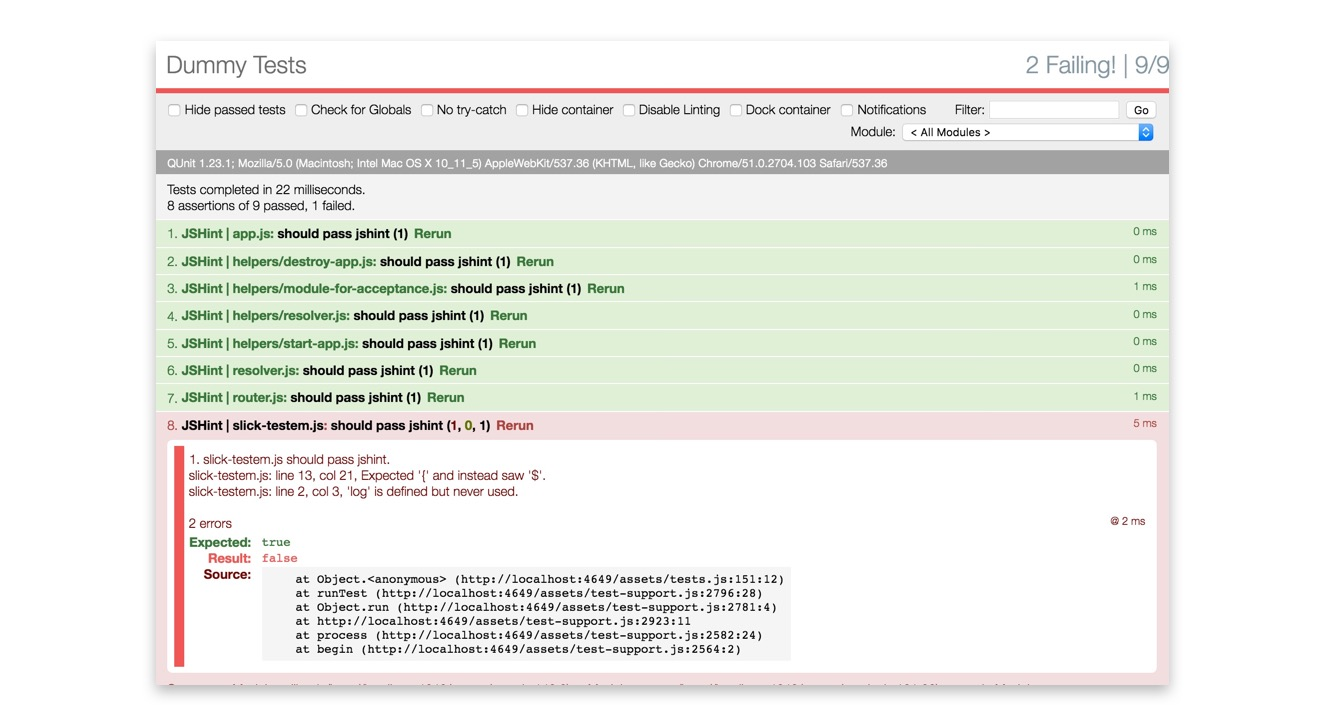
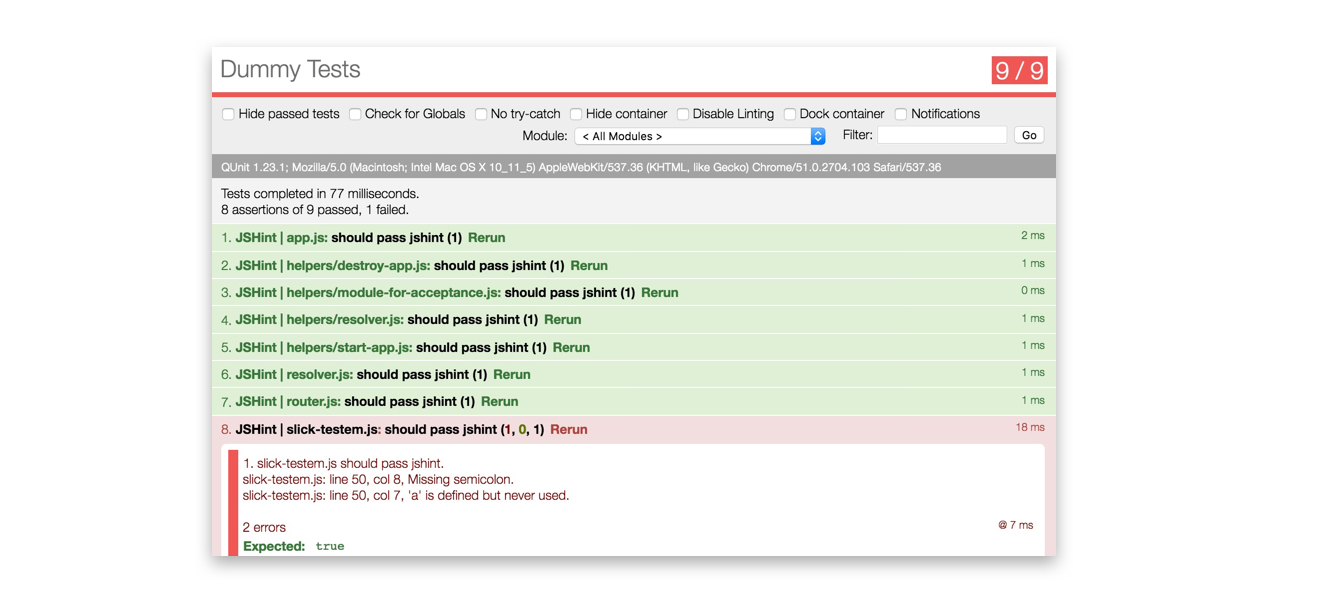
Update screenshot and design tweaks

diff --git a/blueprints/slick_testem/files/tests/slick-testem.js b/blueprints/slick_testem/files/tests/slick-testem.js
@@ -2,7 +2,7 @@
   "use strict";
   var SlickTestem = function() {
     var $slickTestem = $(`
-      <div style="float:right;" id="slick-testem">
+      <div id="slick-testem">
         <span class="tests-ran">0</span> / <span class="tests-total">0</span><br>
       </div>
     `);
@@ -11,6 +11,7 @@
       hasNotifiedFailing: false,
 
       setupHeader: function() {
+        console.log("Setting up slick testem");
         $('#qunit-header').append($slickTestem);
         $('.tests-total').text($('[id^="qunit-test-output"]').length);
       },
@@ -27,7 +28,7 @@
       },
 
       checkFailing: function () {
-        if(this.isFailing() && !this.hasNotifiedFailing) {
+        if(this.isFailing()) {
           $('#slick-testem').addClass('failing');
           this.hasNotifiedFailing = true;
         }
@@ -41,7 +42,7 @@
 
         this.setupTimer = window.setTimeout(() => {
           this.setupHeader();
-        }, 1000); // lazy timer
+        }, 3000); // lazy timer
       }
     };
   };

diff --git a/blueprints/slick_testem/files/tests/slick-testem.css b/blueprints/slick_testem/files/tests/slick-testem.css
@@ -4,6 +4,11 @@ body {
   padding: 0;
 }
 
+#slick-testem {
+  margin-right: 10px;
+  float: right;
+}
+
 #slick-testem.failing {
   background: red;
   color: white;

diff --git a/README.md b/README.md
@@ -12,6 +12,8 @@ Quickstart: `ember install slick_testem`.
 
 ## Development
 
+This runs on `http://localhost:4649`.
+
 `ember generate slick_testem` will load/reload the current `.js` and
 `.cs` files we are using to customize testem.
 
@@ -34,7 +36,7 @@ of testem: http://localhost:4649/tests
 ## Running
 
 * `ember server`
-* Visit your app at http://localhost:4200.
+* Visit your app at http://localhost:4649.
 
 ## Running Tests
 
